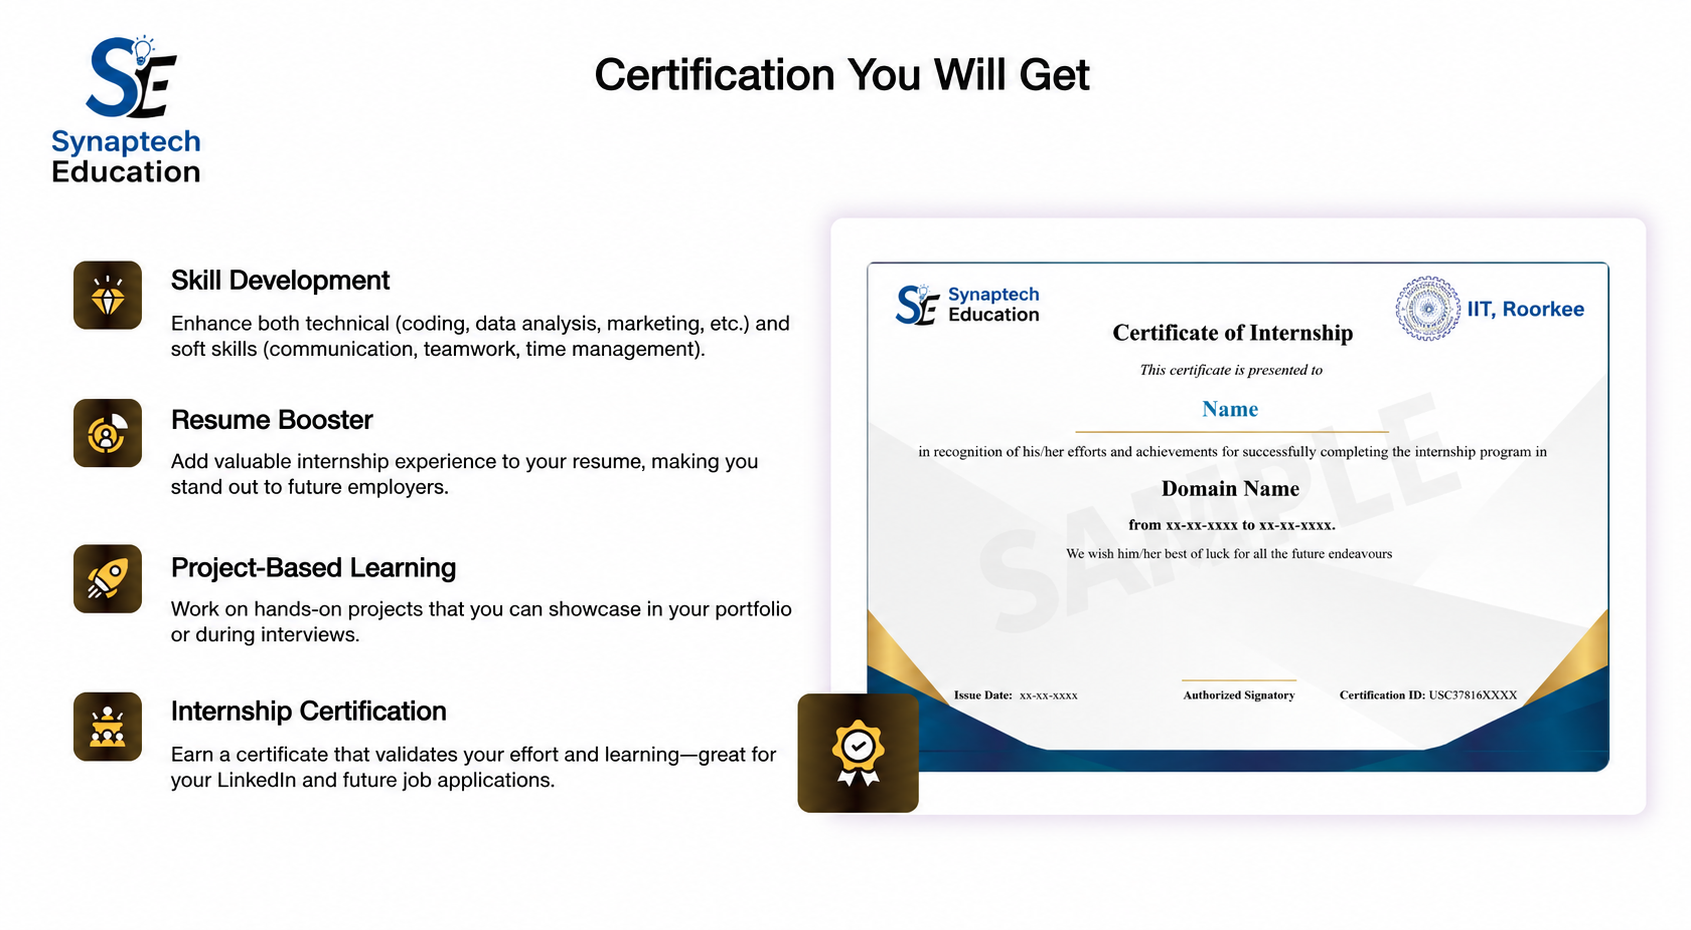
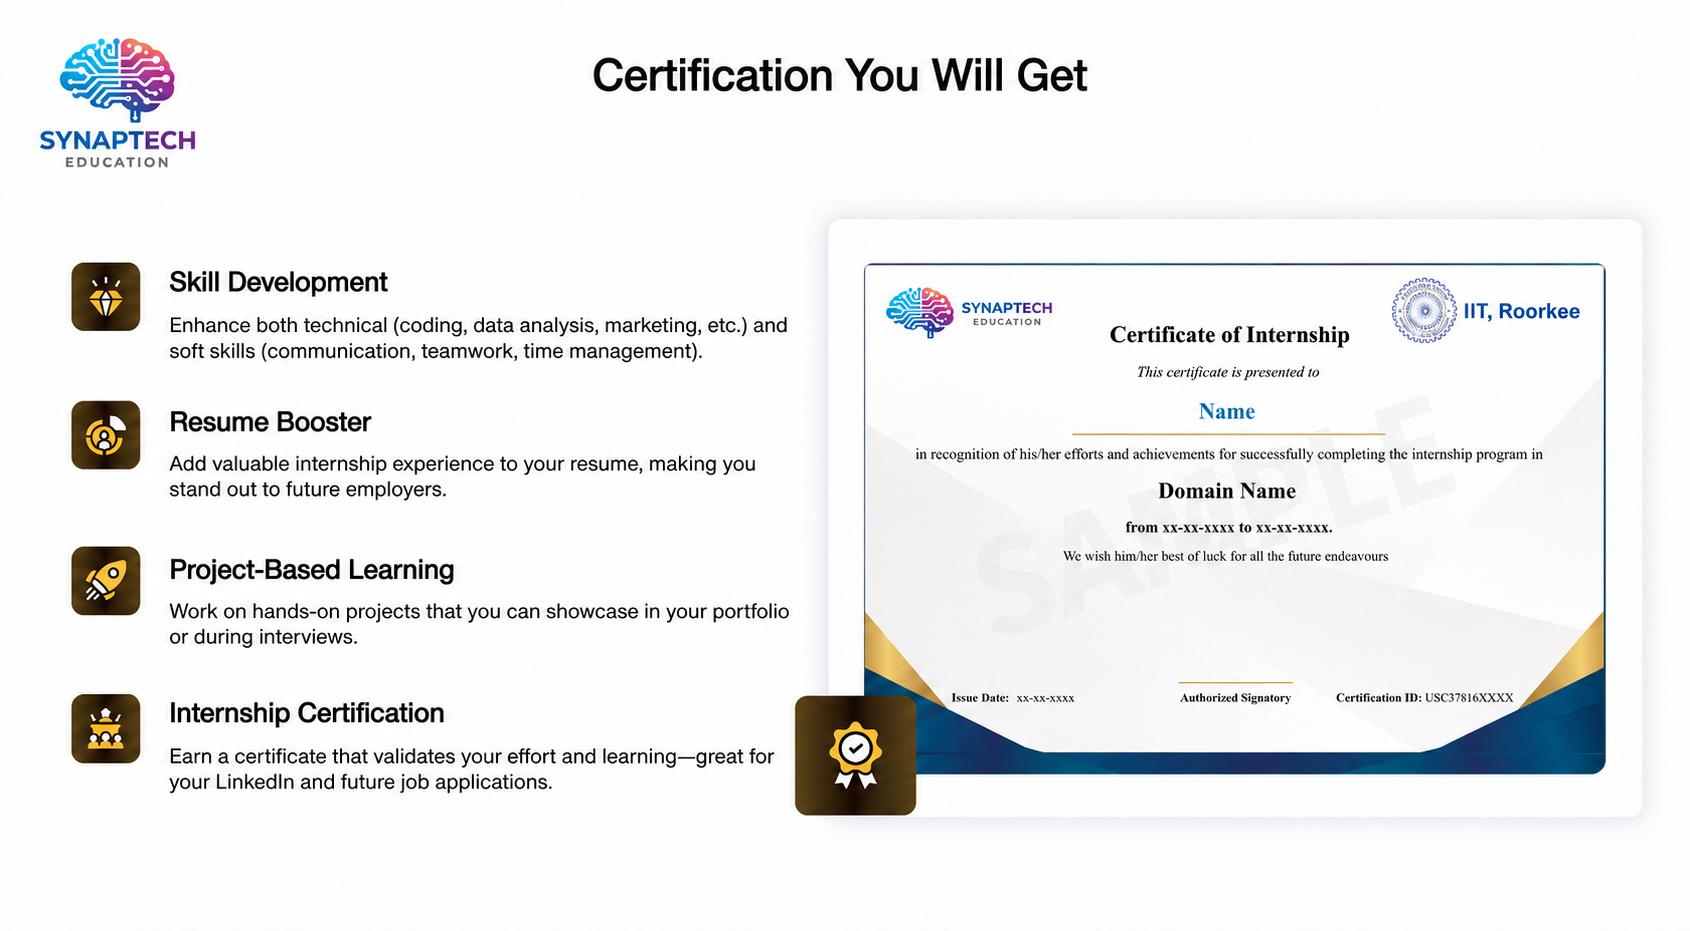
Updated internship certificate asset

diff --git a/src/App.jsx b/src/App.jsx
@@ -1,3 +1,4 @@
+import { FaRobot, FaBrain, FaChartLine } from "react-icons/fa";
 import { Link } from "react-router-dom";
 import placementsImg from "./assets/placements.png";
 import aiHero from "./assets/ai-hero.png";